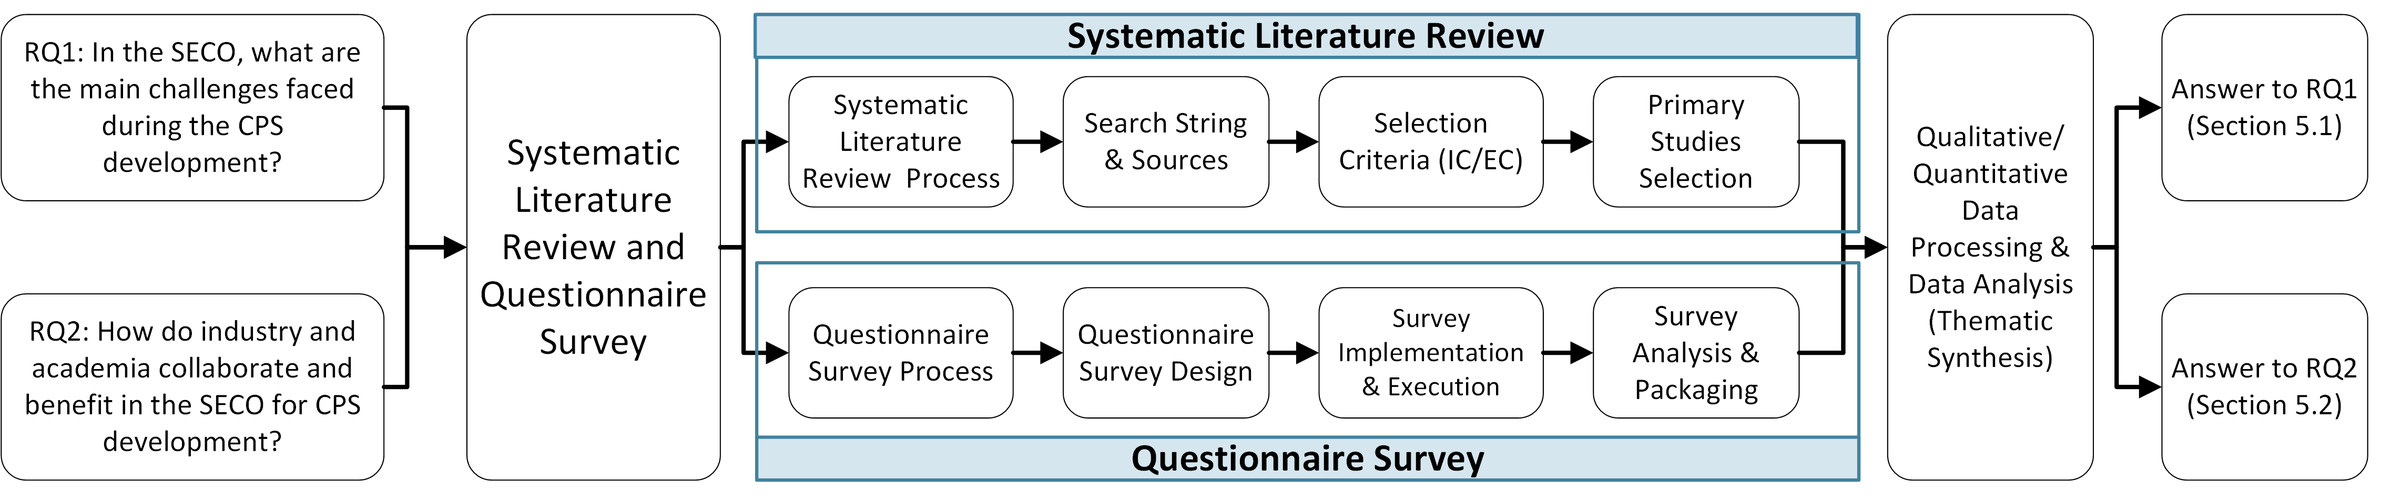
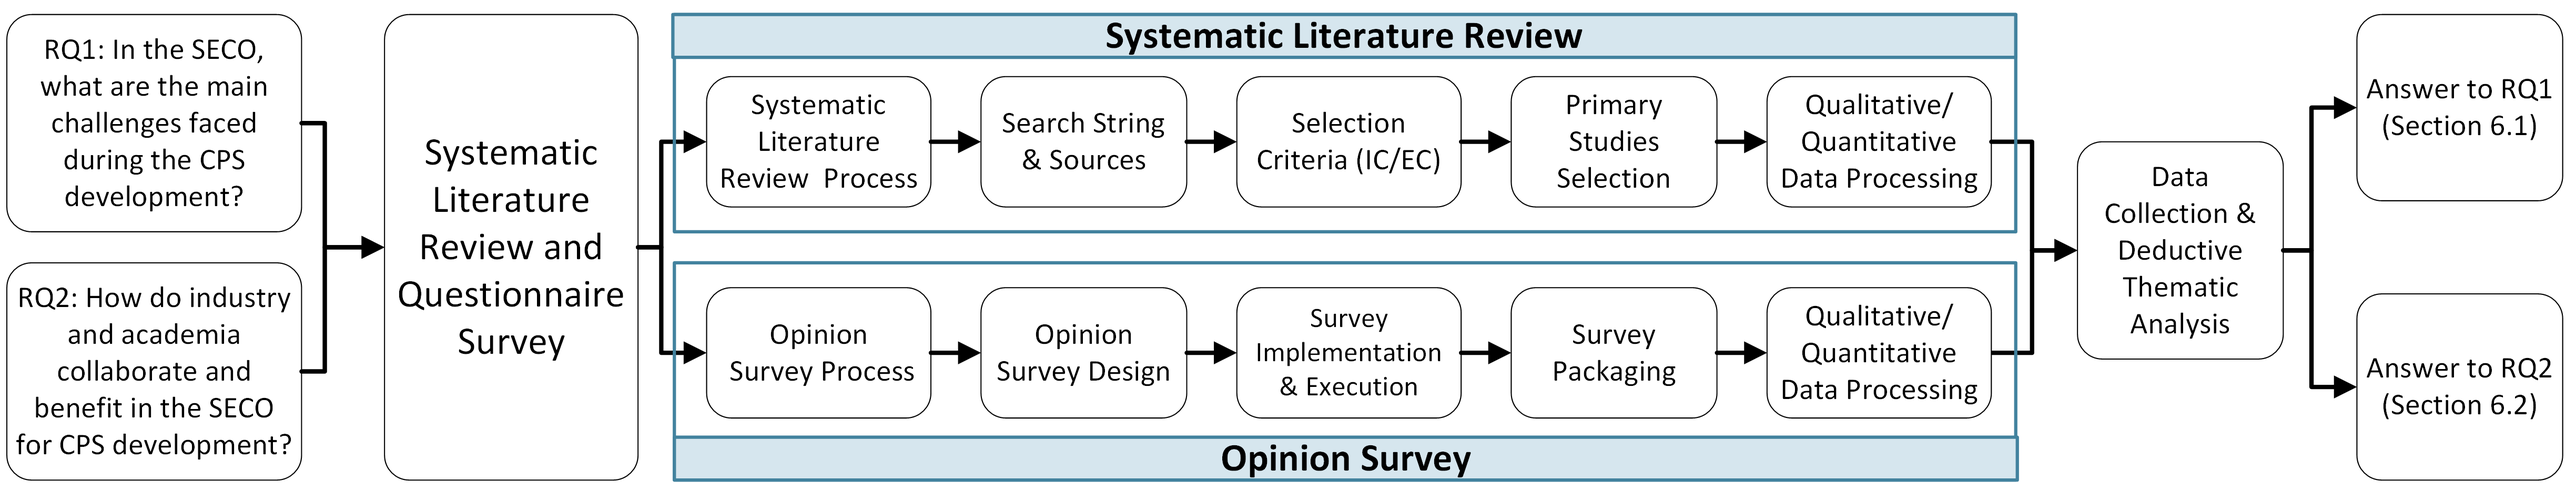
Upload content
readme.md

diff --git a/SLR/README.md b/SLR/README.md
@@ -1,8 +1,37 @@
-# Systematic Literature Review
+# Systematic Literature Review (SLR)
+
+This folder contains the complete workflow and results of the Systematic Literature Review (SLR) conducted for this study.
 
 We used a systematic approach to incorporate theoretical perspectives into empirical findings. Following the guidelines of Kitchenham and Charters [1][2], we chose the SLR approach to review the existing literature and understand current knowledge on SECO for CPS development. We used the litstudy Python package to retrieve papers from databases, while Google Sheets were used for planning, conducting the review, data extraction, and data analysis.
 
-## Search String and Sources
+## Purpose
+
+The SLR investigates challenges, practices, and gaps in the use of Software Ecosystems (SECOs) for Cyber-Physical Systems (CPS) development. It provides the foundational knowledge to contextualize the opinion survey results.
+
+## Content
+
+- Search strings and selection protocols
+- Inclusion/exclusion criteria
+- Quality assessment metrics
+- Selected primary studies
+- Thematic categorization and synthesis
+
+## Structure
+
+- `Full-Paper-Read/`: Spreadsheets and metadata of papers selected for in-depth reading.
+- `Results/`: Quantitative summaries and quality evaluation scores.
+- `Thematic-Analysis-Challenges/`: Qualitative classification and taxonomy of SECO challenges in CPS contexts.
+
+## Tools
+
+The review process used:
+- `litstudy` Python package for data retrieval
+- Google Sheets for coding and tracking
+- The Resonance Scheme for mapping contributions
+
+## Detail on SLR Approach
+
+### Search String and Sources
 
 The search string structure, based on Kitchenham and Charters guidelines [1], is as follows:
 
@@ -12,32 +41,32 @@ This string is formulated as a conjunctive logic proposition of three sets of se
 
 Given the interdisciplinary nature of the SLR, we performed an automatic search on leading research databases to ensure comprehensive literature coverage. The databases were selected based on guidelines and suggestions from previous studies [3, 4]. The selected electronic databases for our study include IEEE Xplore, Scopus, ACM Digital Library, Web of Science, Science Direct, and Springer Link. These databases are widely used in the software engineering domain and support advanced query searches.
 
-## Selection Criteria (IC/EC)
+### Selection Criteria (IC/EC)
 
 This step begins with:
 - **i)** a set of unique papers collected from the selected databases, and 
 - **ii)** a set of inclusion and exclusion criteria (IC/EC) applied to these papers.
 
-We defined IC/EC to determine whether a paper should be included in the SLR or excluded. Each paper collected by queries executed on the selected databases was evaluated based on its title and abstract [T/A] or, if necessary, the full text [All], as outlined below:
+We defined IC/EC to determine whether a paper should be included in the SLR or excluded. Each paper collected by queries executed on the selected databases was evaluated based on its reference metadata [R] or its title and abstract [T/A], as outlined below:
 
 - **Inclusion Criteria (IC):**
   - We include secondary studies [T/A]
-  - We include papers from high-ranked journals (Q1/Q2 Scimago) and conferences (GRIN-GII-SCIE) [T/A]
+  - We include papers from high ranked journals (Q1/Q2 in Scimago) and conferences (A/B in GRIN-GII-SCIE) [R]
   - We include tool papers mentioning SECO for CPS in the abstract, title, and keywords [T/A]
-  - We include challenges paper [All]
+  - We include challenges paper [T/A]
 
 - **Exclusion Criteria (EC):**
-  - We exclude book chapters and books in their entirety [T/A]
+  - We exclude book chapters and books in their entirety [R]
   - We exclude summaries of workshops/conferences [T/A]
   - We exclude Bachelor, Master, and PhD theses [T/A]
   - We exclude abstract-only papers, WIP papers, conferences, reviews, and editorials [T/A]
   - We exclude papers without available full text and non-English papers [T/A]
-  - We exclude papers published before 2006 [5] [T/A]
+  - We exclude papers published before 2006 [5] [R]
   - We exclude non-peer-reviewed papers, case reports, case series, technical reports, and web pages [T/A]
-  - We exclude papers from low-ranked journals (higher than Q1/Q2 Scimago) and conferences (GRIN-GII-SCIE) [T/A]
+  - We exclude papers from low-ranked journals (lower than Q1/Q2 in Scimago) and conferences (lower than A/B in GRIN-GII-SCIE) [R]
   - We exclude tool papers that focus only on the SECO challenge or CPS challenge [All]
 
-## Primary Studies Selection
+### Primary Studies Selection
 
 In the initial database search, 302 papers were found. After removing 30 duplicates, 272 papers were chosen for the IC/EC assessment.
 
@@ -45,13 +74,13 @@ We decided not to conduct a snowballing to maintain reproducibility and avoid ma
 
 By applying IC/EC to the titles and abstracts, we identified 49 papers for full reading. Finally, 28 papers were selected as primary studies.
 
-## Qualitative/Quantitative Data Processing
+### Qualitative/Quantitative Data Processing
 
 To collect quantitative data from the primary studies, we created a Google spreadsheet template to streamline data extraction and synthesis. Each paper was reviewed by two authors and categorized by its metadata (e.g., title, year, venue), main contributions, CPS case study or example availability, SECO tools availability, related challenges and their connection to RQs, and application domains (at least one or domain-independent).
 
 As quality criteria for selecting primary studies, we included papers published in refereed sources that address SECO challenges and issues in CPS development. Following the guidelines in [6], we defined a quality checklist for data synthesis and analysis. Given the immaturity of the research field and the lack of review papers on this topic, we chose not to exclude any papers initially. Quality assessment was conducted after selecting the primary studies to verify if the publications discussed issues related to each quality metric. The criteria used for quality assessment in this study were based on [6] and are **Reporting**, **Rigor**, **Credibility**, and **Relevance**.
 
-## References
+### References
 
 [1] Kitchenham, B. A., & Charters, S. (2007). Guidelines for performing Systematic Literature Reviews in Software Engineering (Techreport EBSE 2007-001)
 

diff --git a/SLR/Thematic-Analysis-Challenges/README.md b/SLR/Thematic-Analysis-Challenges/README.md
@@ -1,3 +1,28 @@
-# Systematic Literature Review Deductive Thematic Analysis
+# Thematic Analysis of Challenges
 
-This folder contains the results of our deductive approach to analyze the extracted data. Analysis was performed to identify pertinent information related to our study themes, such as specific thematic units, industry-academia interactions, and emerging challenges.
+
+This folder contains the qualitative coding and categorization of challenges encountered in SECO-based CPS development (i.e., the deductive approach to analyze the extracted data). Analysis was performed to identify pertinent information related to our study themes, such as specific thematic units, industry-academia interactions, and emerging challenges.
+
+## Purpose
+
+To build an empirically grounded taxonomy of development challenges by combining insights from the literature review and survey data.
+
+## Categories Identified
+
+The challenges are grouped into six high-level areas:
+1. System Design & Architecture
+2. Quality Attributes (e.g., safety, scalability)
+3. Development Processes (e.g., testing, DevOps)
+4. Data and Interoperability
+5. Intelligence and Automation
+6. Stakeholder Engagement
+
+## Method
+
+Thematic analysis was conducted using spreadsheets and manual coding based on survey responses and SLR insights. Themes were consolidated through iterative discussion among authors.
+
+## Outputs outlined in the paper
+
+- A co-occurrence map of interrelated challenges
+- Descriptions and examples for each challenge
+- Support for future research and SECO design decisions

diff --git a/README.md b/README.md
@@ -8,7 +8,7 @@ The study explores how Software Ecosystems (SECOs) contribute to the development
 
 ---
 
-## 📁 Repository Structure
+## Repository Structure
 
 - `SLR/` — Systematic Literature Review materials, including search protocols, selected papers, analysis results, and challenge taxonomy.
 - `Questionnaire-Survey/` — Data and insights from a structured opinion survey administered to AIDOaRt partners.
@@ -17,7 +17,7 @@ The study explores how Software Ecosystems (SECOs) contribute to the development
 
 ---
 
-## 🎯 Objectives
+## Objectives
 
 This study aims to:
 
@@ -27,7 +27,7 @@ This study aims to:
 
 ---
 
-## 🧪 Methodology
+## Methodology
 
 1. **Systematic Literature Review (SLR)**: Conducted following Kitchenham and Charters’ guidelines to uncover key research trends, tools, and unresolved issues.
 2. **Opinion Survey**: Empirical data collection from AIDOaRt participants to understand real-world experiences and perceptions.
@@ -35,7 +35,7 @@ This study aims to:
 
 ---
 
-## 📌 Highlights
+## Highlights
 
 - A taxonomy of 14 empirically grounded challenges in SECO-based CPS development.
 - Key findings on data management, model-based engineering, and architecture extensibility.
@@ -44,7 +44,7 @@ This study aims to:
 
 ---
 
-## 📂 Additional Resources
+## Additional Resources
 
 All data and intermediate analysis artifacts are openly available and traceable in this repository, including:
 - Search queries and inclusion/exclusion criteria for the SLR.

diff --git a/SLR/Results/README.md b/SLR/Results/README.md
@@ -1,3 +1,20 @@
 # Systematic Literature Review Results
 
-This folder contains the results and artifacts related to our Systematic Literature Review. This review aimed to systematically identify, analyze, and synthesize the existing body of literature to provide comprehensive insights into the current trends, challenges, and future research directions within the SECO for CPS development.
+This directory includes the final synthesized results from the Systematic Literature Review (SLR). This review aimed to systematically identify, analyze, and synthesize the existing body of literature to provide comprehensive insights into the current trends, challenges, and future research directions within the SECO for CPS development.
+
+## Contents
+
+- Aggregated data on publication types, venues, citation impact
+- Domain distribution of SECO+CPS studies
+- Relevance to research questions RQ1 and RQ2
+- Quality scoring breakdowns by paper type
+
+## Key Outputs
+
+- A ranked list of 24 primary studies
+- Categorized challenge areas (architecture, requirements, data, etc.)
+- Co-occurrence maps between challenge types
+
+## Methodology
+
+Results were derived from structured data extraction and evaluation against inclusion criteria and quality benchmarks. Quantitative summaries support the construction of the final challenge taxonomy.

diff --git a/Questionnaire-Survey/README.md b/Questionnaire-Survey/README.md
@@ -1,4 +1,35 @@
-# Details about the Questionnaire Survey
+# Opinion Survey
+
+This folder contains the materials and results related to the opinion survey administered to the partners of the AIDOaRt project.
+
+## Purpose
+
+The survey was designed to collect qualitative and quantitative insights about the perceptions, challenges, and collaborative experiences in the context of AIDOaRt SECO-based CPS development .
+
+## Content
+
+- Survey structure and question categories.
+- Raw responses and aggregated metrics.
+- Thematic analysis of open-ended responses.
+
+## Methodology
+
+The survey was designed following ACM SigSoft empirical standards and included a mix of Likert-scale, multiple-choice, and open-ended questions. It covered:
+
+1. Tool development processes.
+2. AIDOaRt SECO architecture usability.
+3. Integration and usage feedback from partners.
+4. Personal experiences and improvement suggestions.
+5. Ideas for future collaborations and research directions.
+
+## Analysis Approach
+
+Responses were analyzed using a combination of descriptive statistics and thematic coding to identify recurring themes, such as:
+- Data and modeling challenges
+- Integration and collaboration effectiveness
+- Stakeholder engagement dynamics
+
+# Details about the Questions
 
 ## Survey Participant Summary
 

diff --git a/SLR/Full-Paper-Read/README.md b/SLR/Full-Paper-Read/README.md
@@ -1,3 +1,21 @@
-# Full Paper Reviews
+# Full-Paper Reading
 
-This folder contains detailed reviews of the primary studies identified during the Systematic Literature Review process. Each review offers an in-depth analysis of a selected study, focusing on its relevance, methodology, findings, and contribution to the overall research questions.
+This subfolder contains data extracted from full-text reading of the primary studies selected through the Systematic Literature Review process. Each review offers an in-depth analysis of a selected study, focusing on its relevance, methodology, findings, and contribution to the overall research questions.
+
+## Purpose
+
+To thoroughly evaluate and classify each selected publication in terms of:
+- Contribution type (technical, empirical, vision, review)
+- Relevance to research questions
+- Use case and tool presence
+- Quality assessment (reporting, rigor, credibility, relevance)
+
+## Content
+
+- Metadata tables with quality scoring
+- Notes from dual coding processes
+- Review spreadsheet for 24 primary studies
+
+## Method
+
+Each paper was reviewed independently by at least two authors. Discrepancies were resolved through discussion. Coding focused on extracting patterns relevant to challenges in SECO for CPS development.
